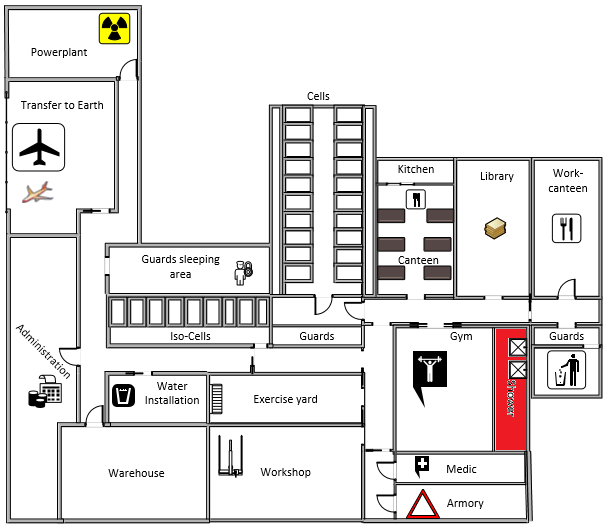
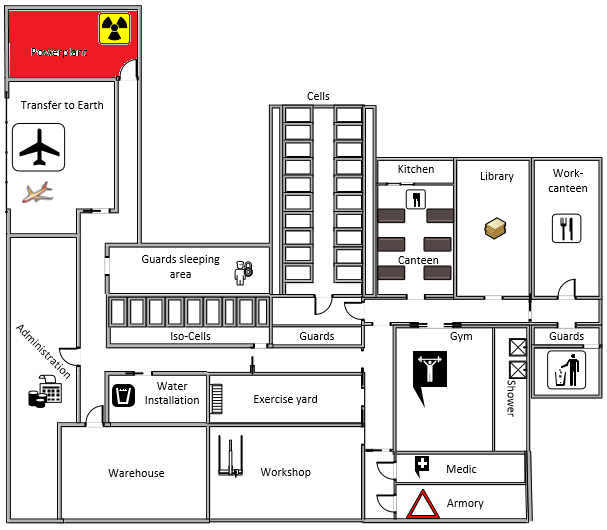
Alfa release V6

Changed region(s): [[0.0, 0.0, 0.2372, 0.1509], [0.8007, 0.6038, 0.8896, 0.8755]]

diff --git a/src/game.ts b/src/game.ts
@@ -10,7 +10,6 @@
  * @version 2017.05.22
  */
 class Game {
-    scell: any;
     parser: Parser;
     out : Printer;
 
@@ -149,6 +148,19 @@ class Game {
         }
         this.out.println("You are now here:");
         this.out.println("<img class='map' src='assets/map/" + this.currentRoom.mapDescription + ".gif'" );
+        this.out.print("Exits: ");
+            if(this.currentRoom.northExit != null) {
+                this.out.print("north ↑ ");
+            }
+            if(this.currentRoom.eastExit != null) {
+                this.out.print("east → ");
+            }
+            if(this.currentRoom.southExit != null) {
+                this.out.print("south ↓ ");
+            }
+            if(this.currentRoom.westExit != null) {
+                this.out.print("west ← ");
+            }
         this.out.println("");
         return false;
     }
@@ -190,6 +202,7 @@ class Game {
         }
         else {
             this.currentRoom = nextRoom;
+            this.out.println("");
             this.out.println("You are " + this.currentRoom.description);
             this.out.println(this.currentRoom.actionDescription);
             this.out.print("Exits: ");
@@ -261,7 +274,43 @@ class Game {
 
         let hall3 = new Room("hall3", hall1.description, 
         hall1.lookDescription, "North of you is the library");
-        
+
+        let hall4 = new Room("hall4", "This is the private hall for the guards", 
+        "Not much to do here..", "Guards are looking at you...");
+
+        let hall5 = new Room("hall5", hall1.description + " that isnt always open for public", 
+        "West of you is another hall but its closed, you can go further south", "");
+
+        let hall6 = new Room("hall6", hall5.description, 
+        "You see the exersice yard west of you", "");
+
+        let hall7 = new Room("hall7", hall5.description, 
+        "You see a workshop west of you, and some other door south", "");
+
+        let hall8 = new Room("hall8", "in the supervised cell hall, only when you have a permit and under supervision, you can enter this hall", 
+        "You see the medic east of you, and something else south", "");
+
+        let hall9 = new Room("hall9", hall8.description, 
+        "You see the armory east of you", "");
+
+        let hall10 = new Room("hall10", "in the semi protected cell hall, normally, you can't enter this hall", 
+        "You see some locked doors", "");
+
+        let hall11 = new Room("hall11", "in the hall where all the normal employees are", 
+        "You see a door south a large hall west and a coffee/soda machine", "");
+
+        let hall12 = new Room("hall12", hall11.description, 
+        "West of you is the administration room, south of you the warehouse, you can also walk further north", "");
+
+        let hall13 = new Room("hall13", hall11.description, 
+        "East of you is the room where the employees and guards sleep, you can also walk further north", "");
+
+        let hall14 = new Room("hall14", hall11.description, 
+        "North of you is the space shuttle dock, east of you is the hall to the nuclear power plant", "");
+
+        let hall15 = new Room("hall15", hall11.description, 
+        "North of you is the door to the nuclear power plant, or you can go back west ofcourse", "");
+
         let canteen = new Room("canteen", "in the canteen", 
         "You see lots of people eating", "North of you is the kitchen, get some food");
 
@@ -276,6 +325,48 @@ class Game {
 
         let shower = new Room("shower", "you are in the showers of the gym", 
         "", "");
+
+        let workcanteen = new Room("workcanteen", "in the work-canteen", 
+        "You see guards eating", "");
+
+        let guards1 = new Room("guards1", "in the guards-post 1", 
+        "You see no guards", "");
+
+        let waste = new Room("waste", "in the waste disposal room", 
+        "You see no guards", "");
+
+        let workshop = new Room("workshop", "in the workshop room", 
+        "You see lots of tools", "");
+
+        let medic = new Room("medic", "in the medic room", 
+        "You see a docter", "");
+
+        let armory = new Room("armory", "in the armory room", 
+        "You see lots of useful weapons", "");
+
+        let exerciseyard = new Room("exerciseyard", "in the exerciseyard", 
+        "You can sport here", "");
+
+        let isocells = new Room("isocells", "in the hall of the iso-cells", 
+        "Nothing to do here..", "");
+
+        let water = new Room("water", "in the room of the water-installation", 
+        "You see some pipes", "");
+
+        let warehouse = new Room("warehouse", "in the warehouse", 
+        "You see lots of useful tools", "");
+
+        let administration = new Room("administration", "in the office/administration room", 
+        "You see lots of people working behind the desk", "");
+
+        let guardssleepingarea = new Room("guardssleepingarea", "in the guards sleeping area", 
+        "You see lots of beds", "");
+
+        let shuttle = new Room("shuttle", "in the shuttle area", 
+        "You see some space shuttles and you smell some freedom", "");
+
+        let nuclear = new Room("nuclear", "in the nuclear power plant facility", 
+        "You see some useful items", "");
         
 
         // initialise room exits
@@ -283,16 +374,41 @@ class Game {
         cell1.setExits(null, cellhall1, null, null);
         cellhall1.setExits(null, null, cellhall2, null);
         cellhall2.setExits(null, null, cellhall3, null);
-        cellhall3.setExits(null, hall1, null, null);
-        hall1.setExits(null, hall2, null, null);
+        cellhall3.setExits(cellhall2, hall1, null, null);
+        hall1.setExits(null, hall2, hall5, cellhall3);
         hall2.setExits(canteen, hall3, gym, hall1);
-        hall3.setExits(library, null, null, hall2);
+        hall3.setExits(library, hall4, null, hall2);
+        hall4.setExits(workcanteen, hall3, guards1, null);
+        hall5.setExits(hall1, null, hall6, hall10);
+        hall6.setExits(hall5, null, hall7, exerciseyard);
+        hall7.setExits(hall6, null, hall8, workshop);
+        hall8.setExits(hall7, medic, hall9, null);
+        hall9.setExits(hall8, armory, null, null);
+        hall10.setExits(isocells, hall5, null, hall11);
+        hall11.setExits(null, hall10, water, hall12);
+        hall12.setExits(hall13, hall11, warehouse, administration);
+        hall13.setExits(hall14, guardssleepingarea, hall12, null);
+        hall14.setExits(shuttle, hall15, hall13, null);
+        hall15.setExits(nuclear, null, null, hall14);
         canteen.setExits(kitchen, null, hall2, null);
         kitchen.setExits(null, null, canteen, null);
         library.setExits(null, null, hall3, null);
         gym.setExits(hall2, shower, null, null);
         shower.setExits(null, null, null, gym);
-
+        workcanteen.setExits(null, null, hall4, null);
+        guards1.setExits(hall4, null, waste, null);
+        waste.setExits(guards1, null, null, null);
+        workshop.setExits(null, hall7, null, null);
+        medic.setExits(null, null, null, hall8);
+        armory.setExits(null, null, null, hall9);
+        exerciseyard.setExits(null, hall6, null, null);
+        isocells.setExits(null, null, hall10, null);
+        water.setExits(hall11, null, null, null);
+        warehouse.setExits(hall12, null, null, null);
+        administration.setExits(null, hall12, null, null);
+        shuttle.setExits(null, null, hall14, null);
+        nuclear.setExits(null, null, hall15, null);
+        
         
         // spawn player inside cell1
         this.currentRoom = cell1;

diff --git a/game.html b/game.html
@@ -29,7 +29,7 @@
 					<p class="pull-right"> Progress: <progress id="progress1" value="0" max="100">0%</progress> </p>
 					<p class="pull-right"> LVL: 0  &nbsp;</p></strong></a>
 					<p class="pull-right"> A game made by Teun Huibregtse </p>
-					<p class="pull-right"> Alfa release: V5 - &nbsp  </p>
+					<p class="pull-right"> Alfa release: V5.1 - &nbsp  </p>
 				</div>			
             </div>
         </div>	
